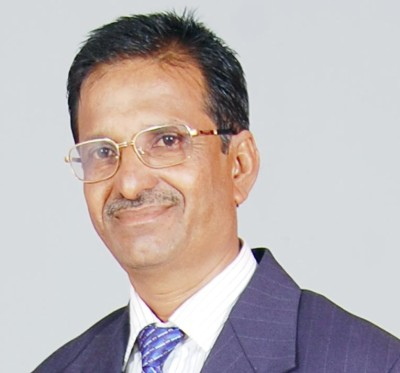
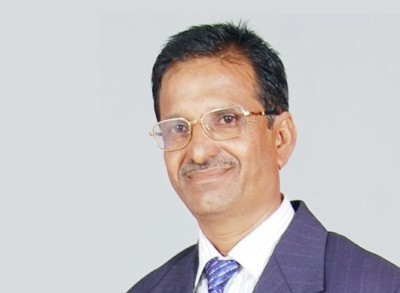
image dimension tags removed. coz all images are of standard size

diff --git a/karnataka/mysore.html b/karnataka/mysore.html
@@ -8,7 +8,7 @@
     <meta name="description" content="">
     <meta name="author" content="">
 
-    <title>Padmamma M.V., AAP Mysore</title>
+    <title>Padmamma M.V, AAP Mysore</title>
 
     <!-- Bootstrap core CSS -->
     <link href="../assets/css/bootstrap.css" rel="stylesheet">
@@ -84,14 +84,14 @@
         <div class="container">
             <div class="row mt">
                 <div class="col-lg-6 col-lg-offset-3 centered">
-                    <h1 class="name">Padmamma M.V.</h1>
+                    <h1 class="name">Padmamma M.V</h1>
                     <hr>
                 </div>
             </div>
             <div class="row mt centered">
 
                 <div class="col-lg-6 dp">
-                    <img class="img-responsive picture" src="../assets/img/ka/CAN_PIC.jpg" width="400" height="300" alt="Padmamma M.V.">
+                    <img class="img-responsive picture" src="../assets/img/ka/CAN_PIC.jpg" alt="Padmamma M.V">
                 </div>
 
                 <div class="col-lg-6 ">

diff --git a/karnataka/bellary.html b/karnataka/bellary.html
@@ -91,7 +91,7 @@
             <div class="row mt centered">
 
                 <div class="col-lg-6 dp">
-                    <img class="img-responsive picture" src="../assets/img/ka/16_bellary.jpg" width="400" height="300" alt="Shivakumar Giriyappa Malagi">
+                    <img class="img-responsive picture" src="../assets/img/ka/16_bellary.jpg" alt="Shivakumar Giriyappa Malagi">
                 </div>
 
                 <div class="col-lg-6 ">

diff --git a/karnataka/bangalore_central.html b/karnataka/bangalore_central.html
@@ -91,7 +91,7 @@
             <div class="row mt centered">
 
                 <div class="col-lg-6 dp">
-                    <img class="img-responsive picture" src="../assets/img/ka/01_bangalore_central.jpg" width="400" height="300" alt="V. Balakrishnan">
+                    <img class="img-responsive picture" src="../assets/img/ka/01_bangalore_central.jpg" alt="V. Balakrishnan">
                 </div>
 
                 <div class="col-lg-6 ">

diff --git a/karnataka/bangalore_north.html b/karnataka/bangalore_north.html
@@ -91,7 +91,7 @@
             <div class="row mt centered">
 
                 <div class="col-lg-6 dp">
-                    <img class="img-responsive picture" src="../assets/img/ka/02_bangalore_north.jpg" width="400" height="300" alt="Prof. Babu Mathew">
+                    <img class="img-responsive picture" src="../assets/img/ka/02_bangalore_north.jpg" alt="Prof. Babu Mathew">
                 </div>
 
                 <div class="col-lg-6 ">

diff --git a/karnataka/bangalore_rural.html b/karnataka/bangalore_rural.html
@@ -91,7 +91,7 @@
             <div class="row mt centered">
 
                 <div class="col-lg-6 dp">
-                    <img class="img-responsive picture" src="../assets/img/ka/03_bangalore_rural.jpg" width="400" height="300" alt="Ravikrishna Reddy">
+                    <img class="img-responsive picture" src="../assets/img/ka/03_bangalore_rural.jpg" alt="Ravikrishna Reddy">
                 </div>
 
                 <div class="col-lg-6 ">

diff --git a/karnataka/uttara_kannada.html b/karnataka/uttara_kannada.html
@@ -91,7 +91,7 @@
             <div class="row mt centered">
 
                 <div class="col-lg-6 dp">
-                    <img class="img-responsive picture" src="../assets/img/ka/28_uttara_kannada.jpg" width="400" height="300" alt="Raghavendra Thane">
+                    <img class="img-responsive picture" src="../assets/img/ka/28_uttara_kannada.jpg" alt="Raghavendra Thane">
                 </div>
 
                 <div class="col-lg-6 ">

diff --git a/karnataka/gulbarga.html b/karnataka/gulbarga.html
@@ -90,7 +90,7 @@
             <div class="row mt centered">
 
                 <div class="col-lg-6 dp">
-                    <img class="img-responsive picture" src="../assets/img/ka/08_gulbarga.jpg" width="400" height="300" alt="Dr B.T. Lalitha Naik ">
+                    <img class="img-responsive picture" src="../assets/img/ka/08_gulbarga.jpg" alt="Dr B.T. Lalitha Naik ">
                 </div>
 
                 <div class="col-lg-6 ">

diff --git a/karnataka/koppal.html b/karnataka/koppal.html
@@ -91,7 +91,7 @@
             <div class="row mt centered">
 
                 <div class="col-lg-6 dp">
-                    <img class="img-responsive picture" src="../assets/img/ka/23_koppal.jpg" width="400" height="300" alt="Shivakumar N. Tontapura">
+                    <img class="img-responsive picture" src="../assets/img/ka/23_koppal.jpg" alt="Shivakumar N. Tontapura">
                 </div>
 
                 <div class="col-lg-6 ">

diff --git a/karnataka/shimoga.html b/karnataka/shimoga.html
@@ -91,7 +91,7 @@
             <div class="row mt centered">
 
                 <div class="col-lg-6 dp">
-                    <img class="img-responsive picture" src="../assets/img/ka/12_shimoga.jpg" width="400" height="300" alt="G. Sridhara Kallahalla">
+                    <img class="img-responsive picture" src="../assets/img/ka/12_shimoga.jpg" alt="G. Sridhara Kallahalla">
                 </div>
 
                 <div class="col-lg-6 ">

diff --git a/karnataka/udupi_chickmagalur.html b/karnataka/udupi_chickmagalur.html
@@ -91,7 +91,7 @@
             <div class="row mt centered">
 
                 <div class="col-lg-6 dp">
-                    <img class="img-responsive picture" src="../assets/img/ka/27_udupi_chickmagalur.jpg" width="400" height="300" alt="Gurudev S.H">
+                    <img class="img-responsive picture" src="../assets/img/ka/27_udupi_chickmagalur.jpg" alt="Gurudev S.H">
                 </div>
 
                 <div class="col-lg-6 ">

diff --git a/karnataka/chikkodi.html b/karnataka/chikkodi.html
@@ -91,7 +91,7 @@
             <div class="row mt centered">
 
                 <div class="col-lg-6 dp">
-                    <img class="img-responsive picture" src="../assets/img/ka/13_chikkodi.jpg" width="400" height="300" alt=" Ashfaq Ahmed Madaki">
+                    <img class="img-responsive picture" src="../assets/img/ka/13_chikkodi.jpg" alt=" Ashfaq Ahmed Madaki">
                 </div>
 
                 <div class="col-lg-6 ">

diff --git a/karnataka/hassan.html b/karnataka/hassan.html
@@ -91,7 +91,7 @@
             <div class="row mt centered">
 
                 <div class="col-lg-6 dp">
-                    <img class="img-responsive picture" src="../assets/img/ka/21_hassan.jpg" width="400" height="300" alt="Santhosh Mohan Gowda">
+                    <img class="img-responsive picture" src="../assets/img/ka/21_hassan.jpg" alt="Santhosh Mohan Gowda">
                 </div>
 
                 <div class="col-lg-6 ">
